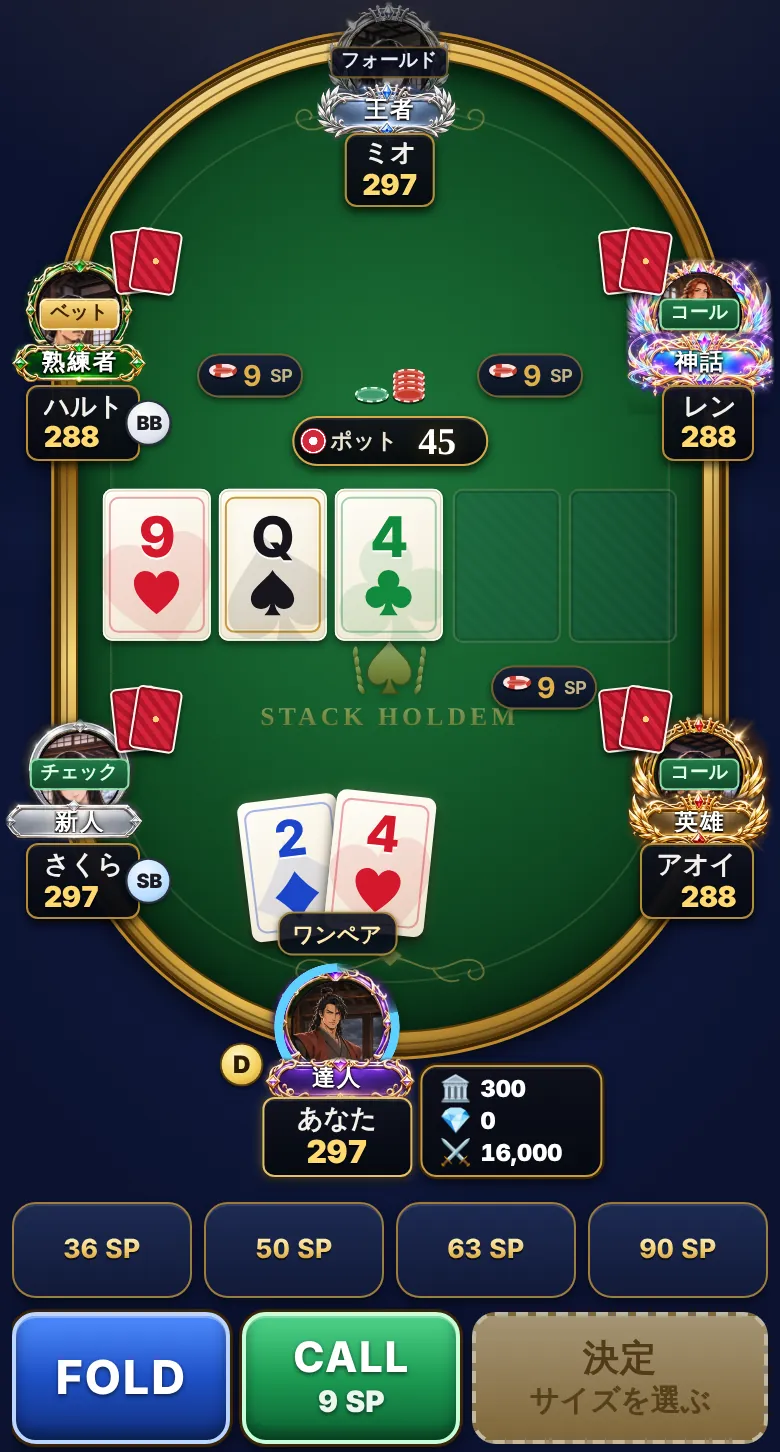
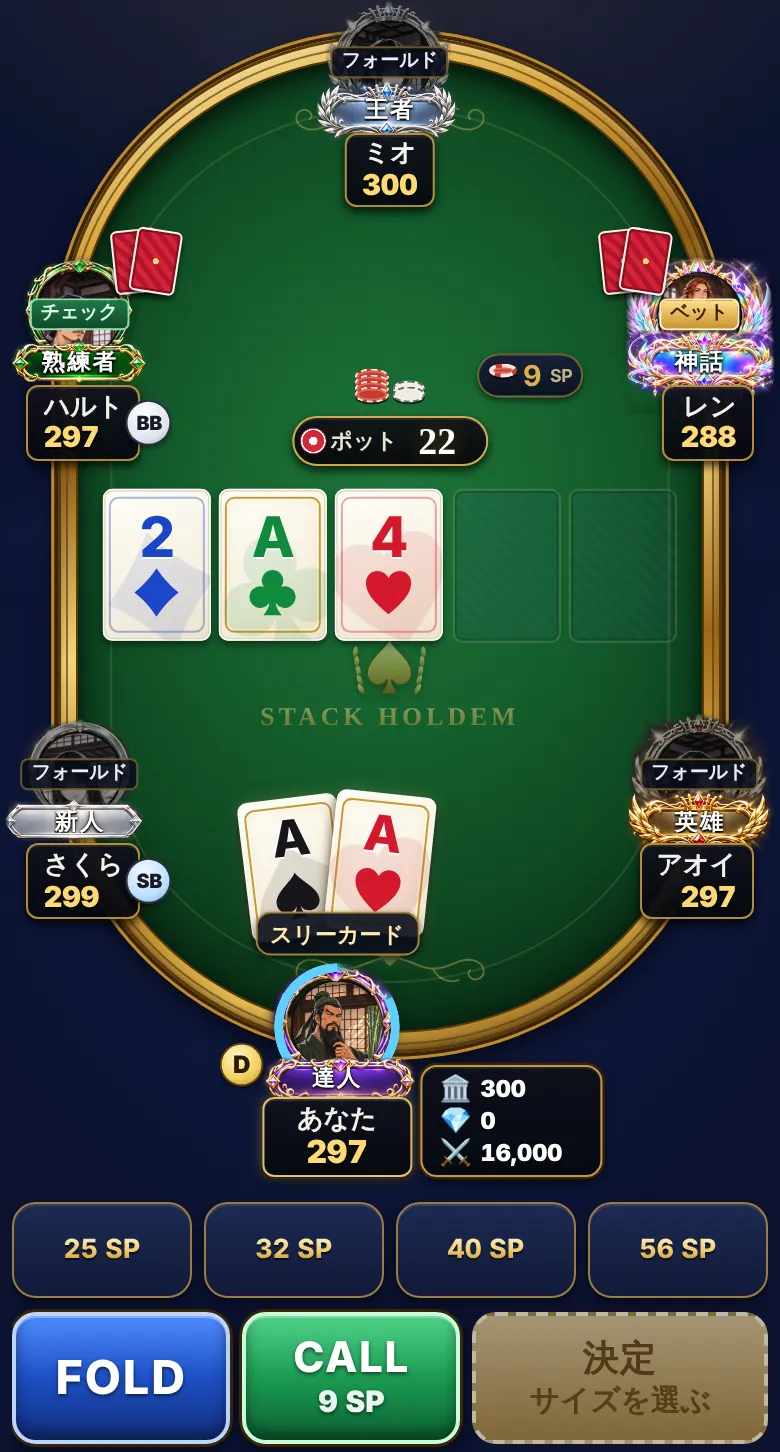
6人リングのプレイ画面を AA のハンドに差し替え
Claude-Session: https://claude.ai/code/session_01E3GUah1caSSvoBchCeFpCY

diff --git a/index.html b/index.html
@@ -40,7 +40,7 @@ dialog{width:min(760px,calc(100% - 28px));max-height:88dvh;padding:26px;border:1
 <p class="sub">STACK HOLDEM — 無料で楽しむテキサスホールデム。</p>
 <div class="hero-links"><a class="cta" href="https://stack-poker.com">無料でプレイする <span aria-hidden="true">↗</span></a><a class="textlink" href="#how">遊び方を見る <span aria-hidden="true">↓</span></a></div>
 </div>
-<figure class="table-figure"><img class="table-shot" src="./assets/ring-6max.webp" alt="6人リングのプレイ画面。中央に共通カード、手前に自分の手札2枚と操作ボタン" width="390" height="726"><figcaption>6人リングのプレイ画面</figcaption></figure>
+<figure class="table-figure"><img class="table-shot" src="./assets/ring-6max.webp" alt="6人リングのプレイ画面。手札はエースのペアで、フロップでスリーカード" width="390" height="726"><figcaption>6人リングのプレイ画面</figcaption></figure>
 </div></section>
 <section class="section"><div class="wrap">
 <h2><span style="display:inline-block">スタックホールデム</span><span style="display:inline-block">の特徴</span></h2>
